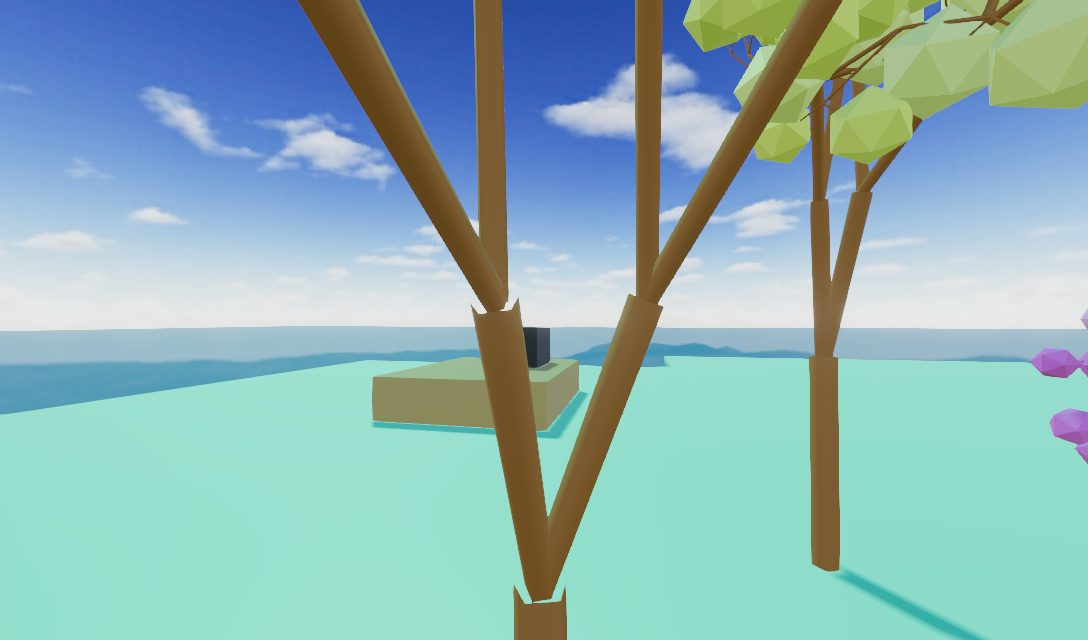
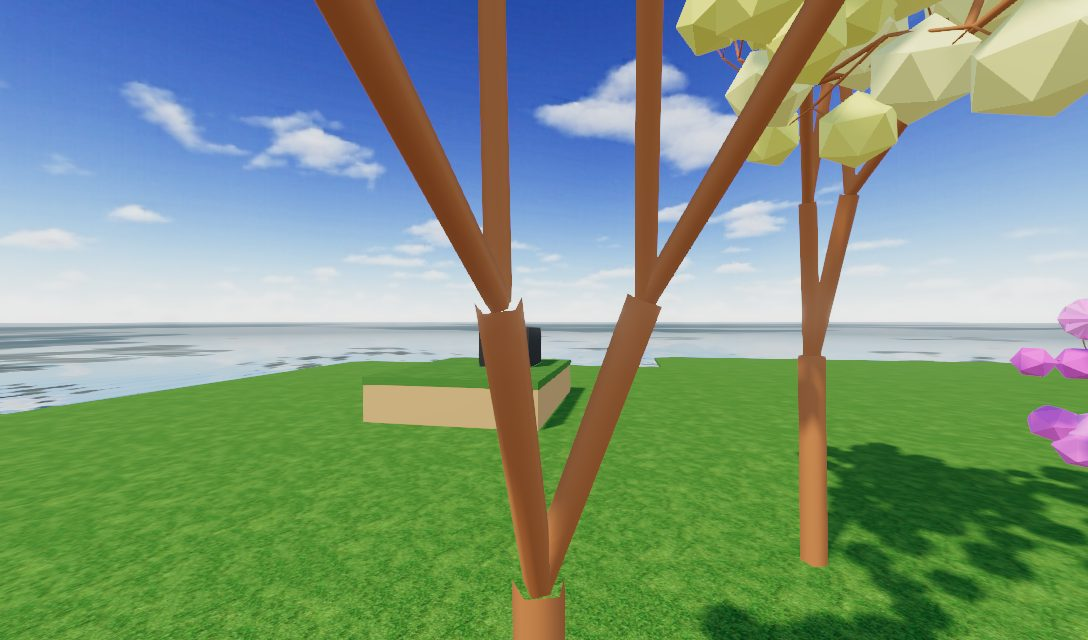
Dress the service islands like the Clawblox island in the viewer (#97)
In the island viewer, a Clawblox island gets grass-textured ground, a grass
cap on every mesa and a reflecting sea (src/island-feed.ts), but a world
service island was drawn from its own document: plain boxes, a flat mint
ground and a translucent ocean slab.

Mesa's document (and so the living island's) now carries the same dressing
as decor without physics: the ground slabs keep their bodies but are hidden
under grass slabs (smaller ones a few centimetres lower, as the viewer does,
so overlaps do not flicker), each mesa gets a grass cap, the hidden ocean
slab gets a water surface to the horizon, and the lights match the
viewer's Clawblox lights. Bodies, rules and the observation are unchanged;
Mesa's content hash changes, so older snapshots are refused (none is in
service). The overview frames grass slabs tagged `land`.

Captures: before/after overview and phone, refreshed doc captures and 4K.

diff --git a/world-service/mesa-island.ts b/world-service/mesa-island.ts
@@ -95,7 +95,7 @@ export function blockEntity(id: string, name: string, position: Vec3, velocity?:
   return {
     id, label: name, type: "box",
     transform: { position, scale: [BLOCK_SIZE, BLOCK_SIZE, BLOCK_SIZE] },
-    material: { color: hex(SLATE) },
+    material: { color: hex(SLATE), roughness: 0.78, metalness: 0.04 },
     physics: {
       mode: "dynamic", mass: BLOCK_MASS, ...BLOCK_SURFACE,
       ...(velocity ? { linearVelocity: velocity } : {}),
@@ -107,6 +107,44 @@ export function blockEntity(id: string, name: string, position: Vec3, velocity?:
 
 export function blockMeta(name: string): MesaEntityMeta {
   return { name, shape: "Block", material: "Slate", color: SLATE, size: [BLOCK_SIZE, BLOCK_SIZE, BLOCK_SIZE], mass: BLOCK_MASS, attributes: pickupAttributes("Slate", "PickupObject") };
+}
+
+// ---- the look ------------------------------------------------------------------------------
+//
+// The island viewer dresses a Clawblox island (src/island-feed.ts): grass-textured ground, a
+// grass cap on every mesa, a reflecting sea. A GraphysX world is drawn from its own document,
+// so the same dressing lives here as decor entities without physics: bodies, observation and
+// every rule stay exactly what they were. The ground's physics slabs are hidden and each one gets
+// a grass slab; overlapping slabs share their top plane, so smaller ones sit a few centimetres
+// lower (as in the viewer's Clawblox mapping) instead of flickering.
+
+const GRASS_TEXTURE = "grass-sample";
+/** Same constants as the viewer's Clawblox mapping (src/island-feed.ts). */
+const GROUND_STEP = 0.04;
+const WATER_HORIZON = 6;
+const grassRepeat = (w: number, d: number): [number, number] => [Math.round(Math.max(1, w / 6) * 1000) / 1000, Math.round(Math.max(1, d / 6) * 1000) / 1000];
+
+function groundGrass(box: StaticBox, rank: number): AgentWorldEntityDefinition {
+  const [w, h, d] = box.size;
+  return {
+    id: `${box.name.toLowerCase()}-grass`, label: `${box.name} grass`, type: "box",
+    geometry: { width: w, height: h, depth: d },
+    transform: { position: [box.position[0], box.position[1] - GROUND_STEP * rank, box.position[2]] },
+    material: { color: "#a9dc8c", roughness: 0.92, metalness: 0, texture: { id: GRASS_TEXTURE, repeat: grassRepeat(w, d) } },
+    castShadow: false, receiveShadow: true, tags: ["decor", "land"],
+  };
+}
+
+function mesaCap(box: StaticBox): AgentWorldEntityDefinition {
+  const [w, h, d] = box.size;
+  const cap = Math.min(0.35, h * 0.2);
+  return {
+    id: `${box.name.toLowerCase()}-grass`, label: `${box.name} grass`, type: "box",
+    geometry: { width: w + 0.04, height: cap, depth: d + 0.04 },
+    transform: { position: [box.position[0], box.position[1] + h / 2 - cap / 2 + 0.02, box.position[2]] },
+    material: { color: "#9fd38c", roughness: 0.9, metalness: 0, texture: { id: GRASS_TEXTURE, repeat: grassRepeat(w, d) } },
+    castShadow: false, receiveShadow: true, tags: ["decor"],
+  };
 }
 
 export interface MesaIsland {
@@ -123,30 +161,44 @@ export function buildMesaIsland(): MesaIsland {
     meta.set(entity.id, info);
   };
 
+  // The Clawblox ocean slab stays (hidden) so the observation keeps it; the sea is drawn by a
+  // reflecting water surface on its top face, out to the horizon.
   add(
-    { id: "ocean", label: "Ocean", type: "box", transform: { position: [0, -0.725, 0], scale: [600, 0.45, 600] }, material: { color: "#3480a8", opacity: 0.82 } },
+    { id: "ocean", label: "Ocean", type: "box", transform: { position: [0, -0.725, 0], scale: [600, 0.45, 600] }, material: { color: "#3480a8", opacity: 0.82 }, visible: false },
     { name: "Ocean", shape: "Block", material: "Glass", color: [0.204, 0.502, 0.659], size: [600, 0.45, 600], mass: 0, transparency: 0.18, attributes: { RenderRole: "Ocean" }, decorative: true },
   );
+  const decor: AgentWorldEntityDefinition[] = [{
+    id: "ocean-surface", label: "Sea", type: "water", transform: { position: [0, -0.5, 0] },
+    water: { size: 600 * WATER_HORIZON, color: "#0e4f63", sunColor: "#fff3d6", rippleScale: 4, distortionScale: 0.9, flowSpeed: 0.45, tintStrength: 0.75, tintDistance: 180, reflection: true, reflectionResolution: 512 },
+    tags: ["decor"],
+  }];
+  const groundRank = new Map(STATIC_BOXES.filter((box) => box.role === "Ground")
+    .sort((a, b) => b.size[0] * b.size[2] - a.size[0] * a.size[2])
+    .map((box, rank) => [box.name, rank]));
   for (const box of STATIC_BOXES) {
+    const ground = box.role === "Ground";
     add(
-      // Clawblox's boundary walls are fully transparent (Transparency = 1): they block, nobody sees them.
-      { id: box.name.toLowerCase(), label: box.name, type: "box", transform: { position: box.position, scale: box.size }, material: { color: hex(box.color) }, physics: { mode: "static", ...TERRAIN_SURFACE }, ...(box.transparency !== undefined && box.transparency >= 1 ? { visible: false } : {}) },
+      // Clawblox's boundary walls are fully transparent (Transparency = 1): they block, nobody sees
+      // them. Ground slabs block too but are drawn by their grass slab.
+      { id: box.name.toLowerCase(), label: box.name, type: "box", transform: { position: box.position, scale: box.size }, material: { color: hex(box.color), roughness: 0.9, metalness: 0 }, physics: { mode: "static", ...TERRAIN_SURFACE }, ...((box.transparency !== undefined && box.transparency >= 1) || ground ? { visible: false } : {}), ...(box.role === "Mesa" ? { castShadow: true, receiveShadow: true } : {}) },
       { name: box.name, shape: "Block", material: box.material ?? "Plastic", color: box.color, size: box.size, mass: 0, static: true, ...(box.transparency !== undefined ? { transparency: box.transparency } : {}), ...(box.role ? { attributes: { RenderRole: box.role } } : {}) },
     );
+    if (ground) decor.push(groundGrass(box, groundRank.get(box.name)!));
+    else if (box.role === "Mesa") decor.push(mesaCap(box));
   }
   BLOCK_SPAWNS.forEach((position, index) => {
     const name = `Block_${index + 1}`;
     add(blockEntity(name.toLowerCase(), name, position), blockMeta(name));
   });
   add(
-    { id: ROCK_ID, label: "Rock_1", type: "box", transform: { position: [-31.4, 3.05, 26.9], scale: ROCK_SIZE }, material: { color: "#34312c" }, physics: { mode: "dynamic", mass: ROCK_MASS, friction: 0.9, restitution: 0 }, tags: ["pickup"] },
+    { id: ROCK_ID, label: "Rock_1", type: "box", transform: { position: [-31.4, 3.05, 26.9], scale: ROCK_SIZE }, material: { color: "#34312c", roughness: 0.96, metalness: 0.02 }, physics: { mode: "dynamic", mass: ROCK_MASS, friction: 0.9, restitution: 0 }, tags: ["pickup"] },
     { name: "Rock_1", shape: "Block", material: "Slate", color: [0.204, 0.192, 0.173], size: ROCK_SIZE, mass: ROCK_MASS, attributes: pickupAttributes("Slate", "Rock") },
   );
   // A torus gets a flat box collider (diameter x tube, thin along local Y) from the runtime,
   // matching the Clawblox ring part. Whether the rendered torus lies flat with it is a check
   // for the viewer (the Three torus is thin along Z).
   add(
-    { id: "ring_1", label: "Ring_1", type: "torus", geometry: { radius: 1.52, tube: 0.28, radialSegments: 32 }, transform: { position: [40, 0.28, -42], rotationDegrees: [0, 32, 0] }, material: { color: "#e8c04a" }, physics: { mode: "dynamic", mass: RING_MASS, friction: 0.35, restitution: 0.18 }, tags: ["pickup"] },
+    { id: "ring_1", label: "Ring_1", type: "torus", geometry: { radius: 1.52, tube: 0.28, radialSegments: 32 }, transform: { position: [40, 0.28, -42], rotationDegrees: [0, 32, 0] }, material: { color: "#e8c04a", roughness: 0.35, metalness: 0.55, emissive: "#e8c04a", emissiveIntensity: 0.12 }, physics: { mode: "dynamic", mass: RING_MASS, friction: 0.35, restitution: 0.18 }, tags: ["pickup"] },
     { name: "Ring_1", shape: "Ring", material: "Plastic", color: [0.91, 0.753, 0.29], size: RING_SIZE, mass: RING_MASS, attributes: pickupAttributes("Yellow", "Ring") },
   );
 
@@ -161,9 +213,11 @@ export function buildMesaIsland(): MesaIsland {
       physics: { gravity: [0, -30, 0] },
     },
     entities: [
-      { id: "ambient", type: "ambient-light", intensity: 0.8 },
-      { id: "sun", type: "directional-light", intensity: 2.4, transform: { position: [-40, 80, 30] }, castShadow: true },
+      // The island viewer's lights for a Clawblox island (src/island-app.ts), so both look alike.
+      { id: "ambient", type: "ambient-light", intensity: 0.55, material: { color: "#dfeeff" } },
+      { id: "sun", type: "directional-light", intensity: 2.6, transform: { position: [60, 90, 40] }, material: { color: "#fff1d8" }, castShadow: true },
       ...entities,
+      ...decor,
     ],
   };
   return { document, meta };

diff --git a/src/island-world-feed.ts b/src/island-world-feed.ts
@@ -440,15 +440,20 @@ export function isEventStream(contentType: string | null | undefined): boolean {
   return typeof contentType === "string" && /^text\/event-stream\b/i.test(contentType.trim());
 }
 
-/** Footprint of the visible land (static-physics entities) for the opening overview: centre and half-extent. */
+/**
+ * Footprint of the visible land for the opening overview: centre and half-extent. Land is a
+ * visible static body, or decor tagged `land` (a world that hides its physics slabs and draws
+ * grass slabs over them, like the service's islands).
+ */
 export function worldBounds(scene: WorldScene): { center: ClawVec3; radius: number } {
   let minX = Infinity, maxX = -Infinity, minZ = Infinity, maxZ = -Infinity, top = 0;
   const vec = (value: unknown, fallback: number): ClawVec3 =>
     Array.isArray(value) && value.length >= 3 && value.slice(0, 3).every(finite) ? [value[0], value[1], value[2]] as ClawVec3 : [fallback, fallback, fallback];
   for (const entity of scene.entities) {
     const physics = isRecord(entity.physics) ? entity.physics : null;
+    const land = Array.isArray(entity.tags) && entity.tags.includes("land");
     // Invisible blockers (Mesa's boundary walls) are not land.
-    if (!physics || physics.mode !== "static" || entity.visible === false) continue;
+    if (entity.visible === false || !(land || physics?.mode === "static")) continue;
     const transform = isRecord(entity.transform) ? entity.transform : {};
     const geometry = isRecord(entity.geometry) ? entity.geometry : {};
     const [x, y, z] = vec(transform.position, 0);

diff --git a/docs/LIVING_ISLAND.md b/docs/LIVING_ISLAND.md
@@ -3,8 +3,9 @@
 Rédigé le 2026-10-29 vers 19:30 America/Toronto, complété vers 22:30 (sélecteur de monde,
 troncs solides) après les réponses de Yanik. Rien n'est déployé, aucun modèle n'a été
 appelé, le MCP GraphysX reste éteint. Code : `world-service/living-island.ts`, lancé avec
-`--world living-island` (ou `WORLD_ID=living-island`). Mesa reste identique, au bit près
-(même empreinte `187f609d63a3204b`).
+`--world living-island` (ou `WORLD_ID=living-island`). L'île vivante ne change rien à Mesa :
+mêmes corps, mêmes règles. Les deux îles partagent depuis le 2026-10-29 au soir le décor de
+l'île Clawblox (section « Le décor »).
 
 ## Pourquoi
 
@@ -89,7 +90,28 @@ Le jardinier scripté vient de garder une graine de `Tree_4` (le plus touffu), d
 | Vue d'ensemble : la forêt et la volée (les oiseaux évitent l'agent suivi) | ![vue d'ensemble](living-island/overview.jpg) |
 | Ce que voit le jardinier (`GET /observe/image`, 1088×640) | ![vue du jardinier](living-island/gardener-view.jpg) |
 | Téléphone (375 px), panneau replié | ![téléphone](living-island/phone.jpg) |
-| 4K (3840×2160, HUD à l'échelle 2), `Tree_6` adulte | ![4K](living-island/4k.jpg) |
+| 4K (3840×2160, HUD à l'échelle 2 ; image réduite à 2560 px), `Tree_6` adulte | ![4K](living-island/4k.jpg) |
+
+## Le décor
+
+Remarque du 2026-10-29 au soir : dans la vue, le sol des îles du service sortait menthe et uni,
+loin de l'île Clawblox vue dans la même page. La vue habille une île Clawblox (herbe texturée,
+chapeau d'herbe sur chaque mesa, mer réfléchissante, `src/island-feed.ts`) ; une île du service
+s'affiche depuis son propre document, qui n'avait que des boîtes de couleur.
+
+Le document de Mesa (donc aussi celui de l'île vivante) porte maintenant le même habillage,
+en **décor sans physique** : les dalles de sol gardent leurs corps mais sont cachées sous une
+dalle d'herbe ; chaque mesa reçoit son chapeau d'herbe ; l'océan reste une dalle cachée sous une
+surface d'eau ; les lampes sont celles de la vue (ambiante 0,55 bleutée, soleil 2,6 chaud).
+Les corps, les règles et l'observation ne changent pas (même position de l'océan, mêmes noms,
+mêmes couleurs annoncées). L'empreinte de Mesa change (`3bdeced47efb7c86`) : les sauvegardes
+d'avant sont refusées ; aucune n'est en service. La vue à la première personne d'Eko voit le
+même décor.
+
+| | |
+| --- | --- |
+| Vue d'ensemble, avant et après | ![décor, vue d'ensemble](living-island/look-overview-before-after.jpg) |
+| Téléphone (375 px), avant et après | ![décor, téléphone](living-island/look-phone-before-after.jpg) |
 
 ## Choisir le monde : un seul conteneur, un sélecteur
 

diff --git a/docs/WORLD_SERVICE_DESIGN.md b/docs/WORLD_SERVICE_DESIGN.md
@@ -23,7 +23,9 @@ reste à décider (phase 4, non commencée).
 
 Un second monde, `living-island` (`--world living-island`), ajoute à Mesa une Forêt vivante,
 une volée et un vent, avec les actions `GatherSeed`, `Sow` et `NextGeneration` : ce sont les
-agents qui sélectionnent les arbres. Mesa ne change pas (même empreinte). Détails, mesures et
+agents qui sélectionnent les arbres. L'île vivante ne change rien à Mesa ; les deux portent
+depuis le décor de la vue Clawblox (herbe, mer, sans physique ; empreinte de Mesa changée,
+anciennes sauvegardes refusées). Détails, mesures et
 questions : [`LIVING_ISLAND.md`](LIVING_ISLAND.md).
 
 ## État après les phases 1 et 2
